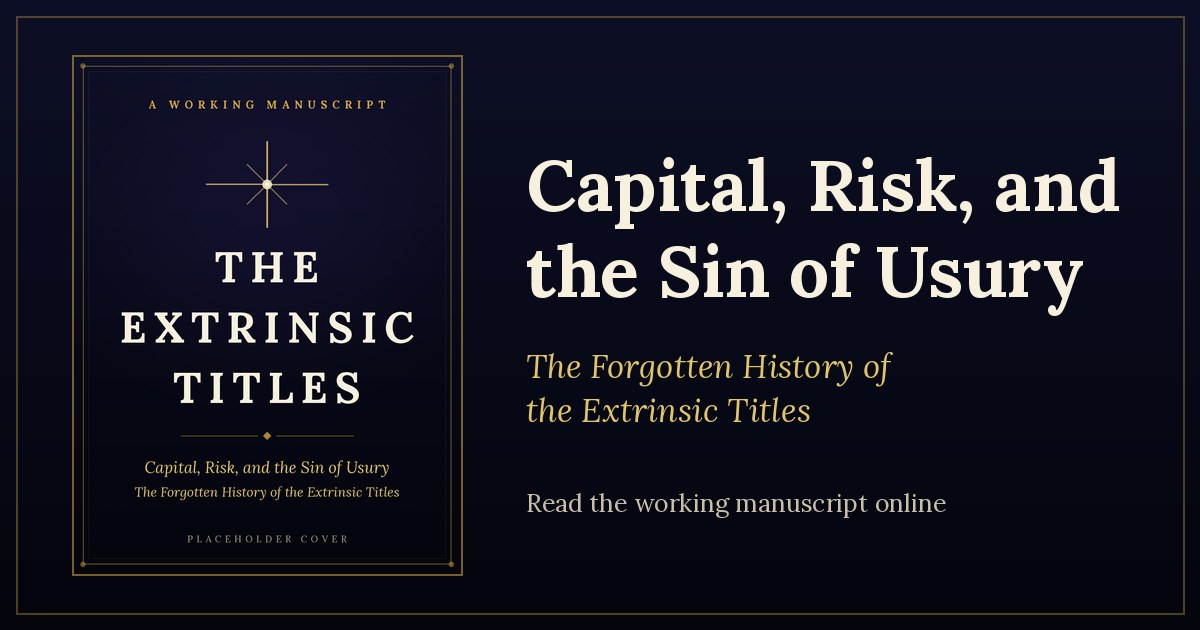
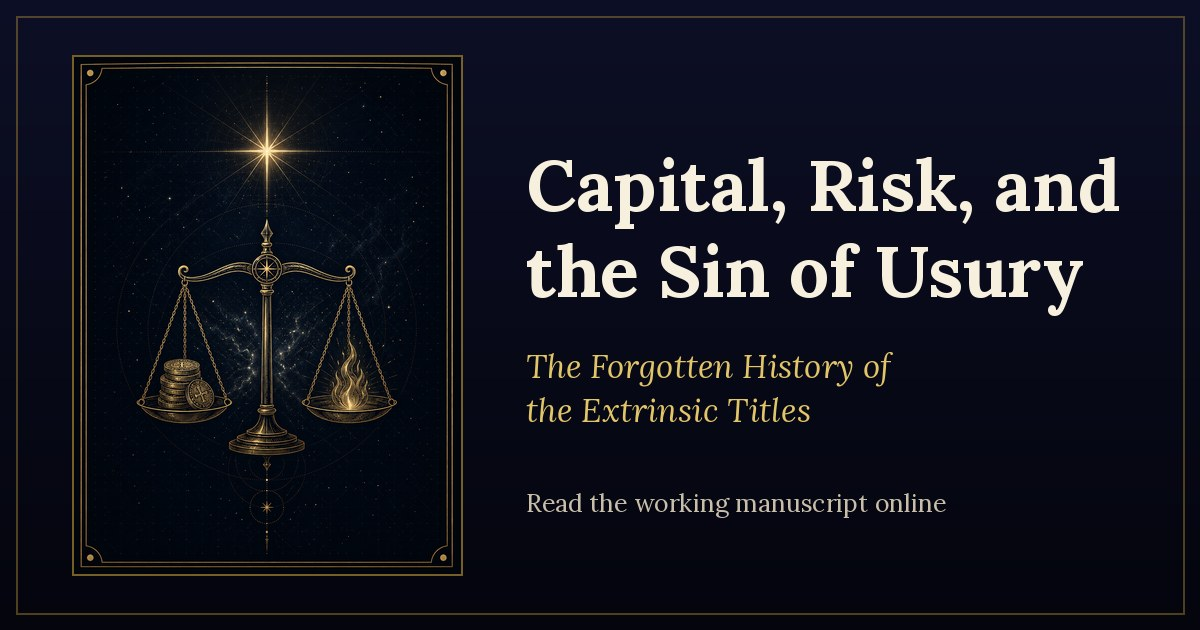
Install finished cover art
Replace the typographic placeholder with the finished NEC-style cover (gold
scales weighing coins against a flame on deep navy, 1086x1448), regenerate the
Open Graph card from it, and update the README cover note.

Changed region(s): [[0.0617, 0.0905, 0.4008, 0.9048]]

diff --git a/README.md b/README.md
@@ -45,7 +45,7 @@ The converter reads the per-unit drafts in reading order, reads the Part divider
 
 ## Cover art
 
-`attached_assets/extrinsic-titles-cover.png` is a **placeholder** cover (1086 x 1448 px), generated by `tools/make_placeholder_art.py`. To swap in the real cover later: overwrite that file (same filename; portrait, about 1086 x 1448 px), run `python3 tools/make_placeholder_art.py --og-only` to refresh the social-share card (`opengraph.jpg`), commit, and push. No code change is needed. A ChatGPT image prompt for generating a finished cover in the NEC house style is kept alongside the handoff notes.
+`attached_assets/extrinsic-titles-cover.png` is the cover (1086 x 1448 px, installed 15 Jul 2026): a gold-on-navy scales-of-justice emblem weighing coins against a flame, in the NEC house style. To swap in a new version later: overwrite that file (same filename; portrait, about 1086 x 1448 px), run `python3 tools/make_placeholder_art.py --og-only` to refresh the social-share card (`opengraph.jpg`), commit, and push. No code change is needed. `tools/make_placeholder_art.py` (which generated the original typographic placeholder and still builds the Open Graph card) and `COVER_PROMPT.md` (the ChatGPT prompt behind the finished art) are kept for reference.
 
 ## Repo layout
 